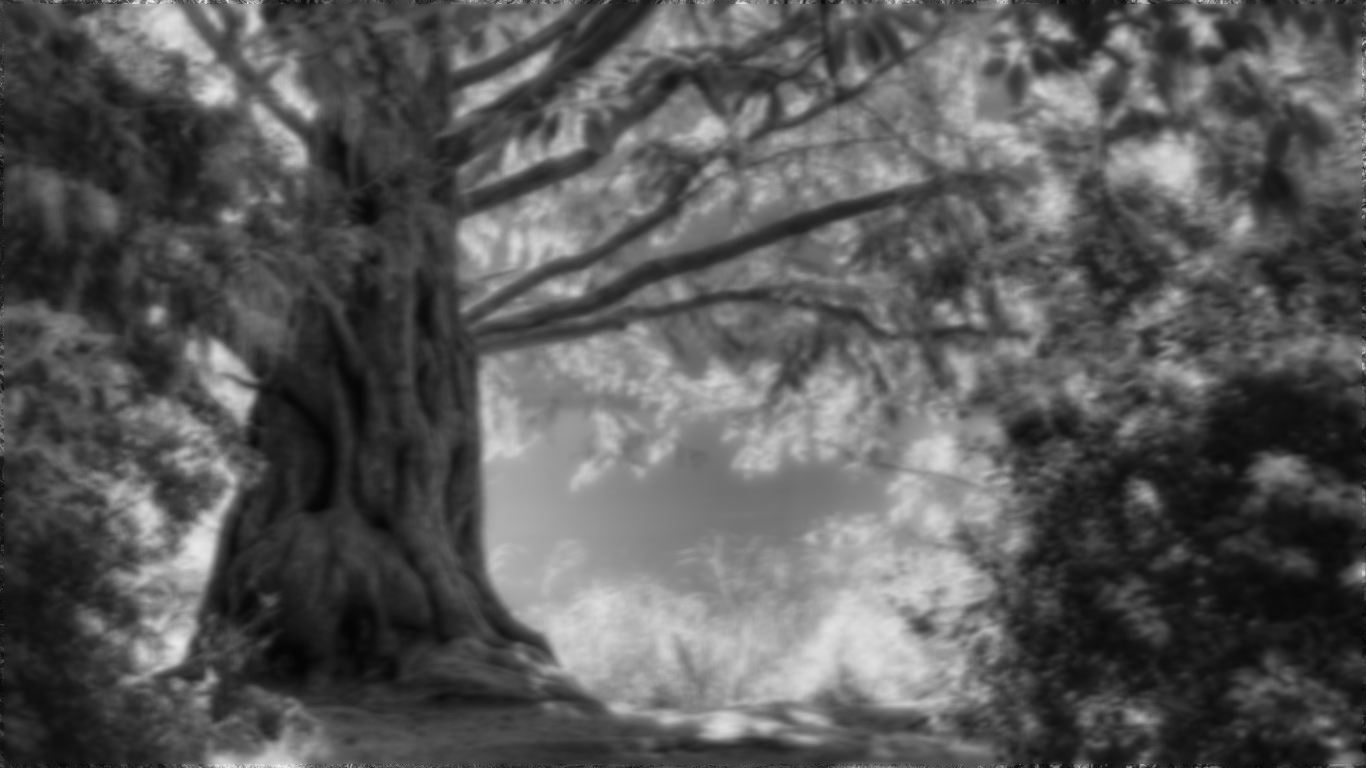
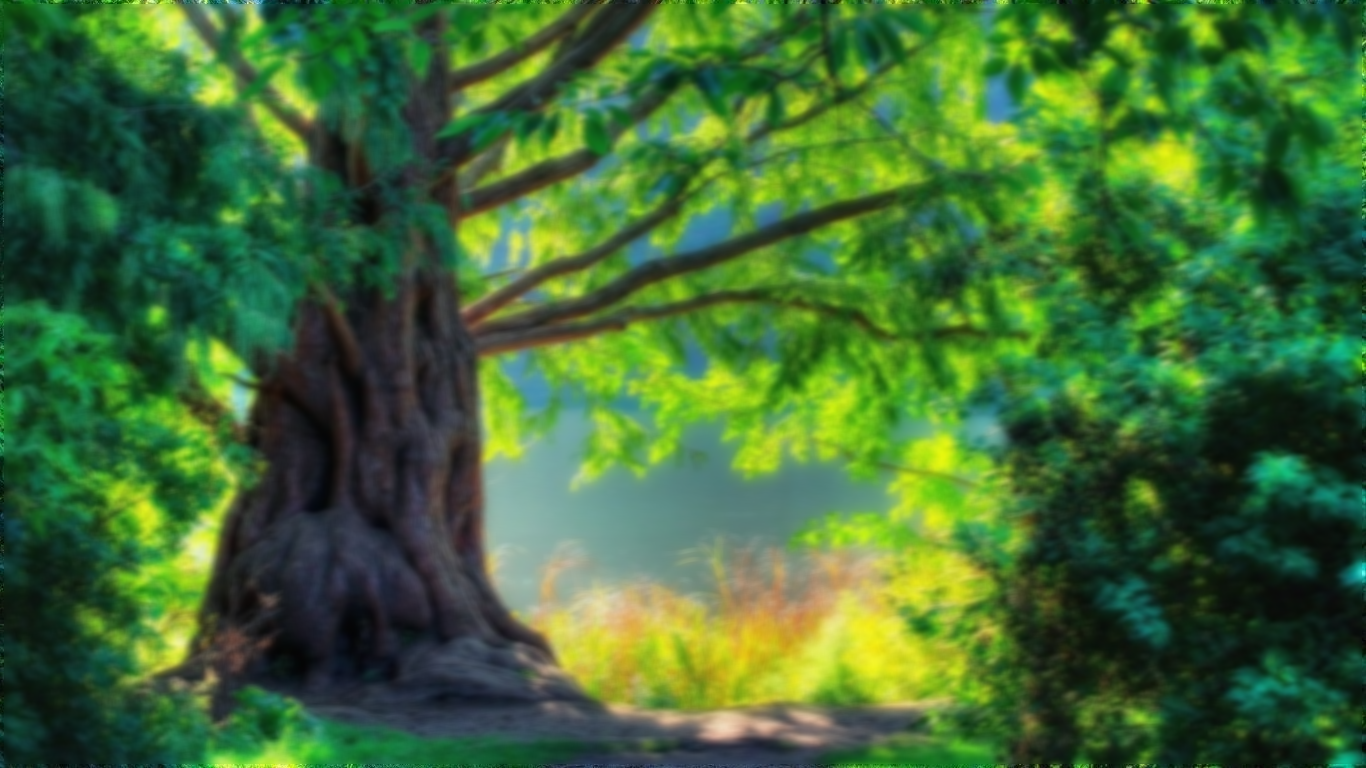
Algoritmo com imagem integral e Adaptação para cores

diff --git a/02_blur/blur.py b/02_blur/blur.py
@@ -8,7 +8,7 @@ INPUT_IMAGE =  'tree.jpg'
 def blurIngenuo(img, fullw):
     w = fullw//2
     img_return = np.array
-    img_return = img.reshape((img.shape[0], img.shape[1], 1))
+    img_return = img.reshape((img.shape[0], img.shape[1], 3))
 
     for y in range(w, len(img)-w):
         for x in range(w, len(img[0])-w):
@@ -18,7 +18,7 @@ def blurIngenuo(img, fullw):
                 for j in range(-w, w+1):
                     # soma cada pixel da janela
                     soma += img[y+i, x+j]
-            media = soma / fullw**2
+            media = soma / (fullw**2)
             img_return[y, x] = media
 
     return img_return
@@ -50,11 +50,12 @@ def chadBlur(img, fullw):
 def blurSeparavel(img, halfWidth):
     pass
 
-def blurIntegral(img, halfW):
-    fullW = 2*halfW+1
+def blurIntegral(img, fullW):
+    halfW = fullW // 2
+    # fullW = 2*halfW+1
     img_return = np.copy (img)
     img_integral = np.array
-    img_integral = img.reshape((img.shape[0], img.shape[1], 1))
+    img_integral = img.reshape((img.shape[0], img.shape[1], 3))
 
     # criação da imagem integral --------------------------------
     # para cada linha y
@@ -77,13 +78,52 @@ def blurIntegral(img, halfW):
 
     # Obtenção da média ------------------------------------------
     # para cada pixel...
-    for y in range(halfW, len(img)-halfW):
-        for x in range(halfW, len(img[0])-halfW):
+    for y in range(0, len(img)-halfW):
+        for x in range(0, len(img[0])-halfW):
             # para cada pixel, janela:
-            soma = img_integral[y+halfW, x+halfW] - img_integral[y-halfW-1, x+halfW] - img_integral[y+halfW, x-halfW-1] + img_integral[y-halfW-1, x-halfW-1]
+            soma = 0
+            soma += img_integral[y+halfW, x+halfW]
+            winW = fullW
+            winH = fullW
+            if (y>halfW):
+                soma -= img_integral[y-halfW-1, x+halfW]
+            if (x>halfW):
+                soma -= img_integral[y+halfW, x-halfW-1] 
+            if (x>halfW and y>halfW):
+                soma += img_integral[y-halfW-1, x-halfW-1]
+            """ soma = img_integral[y+halfW, x+halfW] - img_integral[y-halfW-1, x+halfW] - img_integral[y+halfW, x-halfW-1] + img_integral[y-halfW-1, x-halfW-1]
             media = soma / (fullW**2)
+            #print(media)
+            img_return[y, x] = media """
+            media = soma / (winH*winW)
             img_return[y, x] = media
     
+    for y in range(0, halfW+1):
+        break
+        for x in range(0, len(img[0])-halfW):
+            soma = 0
+            soma += img_integral[y+halfW, x+halfW]
+            winW = fullW
+            winH = fullW
+            #print(type(soma[0]))
+            #print(img_integral[y+halfW, x-halfW-1][1])
+            """ if not (y<=halfW):
+                soma -= img_integral[y-halfW-1, x+halfW]
+                winW = x + halfW  """
+            if (x>halfW):
+                soma -= img_integral[y+halfW, x-halfW-1] 
+                winW = fullW
+                #winH = y + halfW
+                
+            """  if not (y<=halfW):
+                soma -= img_integral[y-halfW-1, x+halfW]
+            if not (x<=halfW):
+                soma -= img_integral[y+halfW, x-halfW-1] 
+            if (x>=halfW and y>=halfW):
+                soma += img_integral[y-halfW-1, x-halfW-1] """
+                
+            media = soma / (winH*winW)
+            img_return[y, x] = media
 
     return img_return
 
@@ -96,14 +136,16 @@ def main ():
     algoritmo = integral
 
     # Leitura do arquivo-----------------------------------
-    img = cv2.imread(INPUT_IMAGE, cv2.IMREAD_GRAYSCALE)
+    # img = cv2.imread(INPUT_IMAGE, cv2.IMREAD_GRAYSCALE)
+    img = cv2.imread(INPUT_IMAGE, cv2.IMREAD_COLOR)
 
     if img is None:
         print('Cannot open image')
         sys.exit()
 
-    img = img.reshape((img.shape[0], img.shape[1], 1))
-    img = img.astype(np.float32) / 255
+    img = img.reshape((img.shape[0], img.shape[1], 3))
+    img = img.astype(np.float32)
+    img /= 255
 
     # Algoritmos
     if algoritmo == ingenuo:
@@ -118,12 +160,12 @@ def main ():
         print ('Tempo separável: %f' % (timeit.default_timer () - start_time))
     elif algoritmo == integral:
         start_time = timeit.default_timer ()
-        img_output = blurIntegral(img, 4) # meia largura como parametro
+        img_output = blurIntegral(img, 55) 
         cv2.imwrite('04 - blurIntegral.png', img_output*255)
         print ('Tempo integral: %f' % (timeit.default_timer () - start_time))
 
     # mostrar a imagem de saída
-    cv2.imshow('Output', img_output*255)    # TODO saída branca
+    cv2.imshow('Output', img_output)    # TODO saída branca
     cv2.waitKey ()
     cv2.destroyAllWindows ()
 
